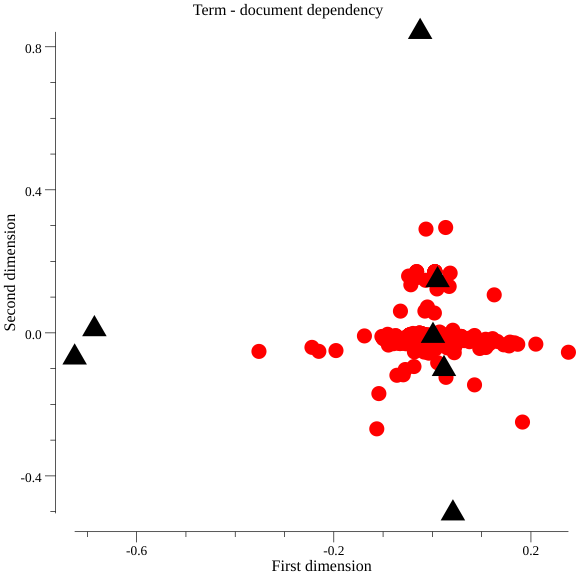
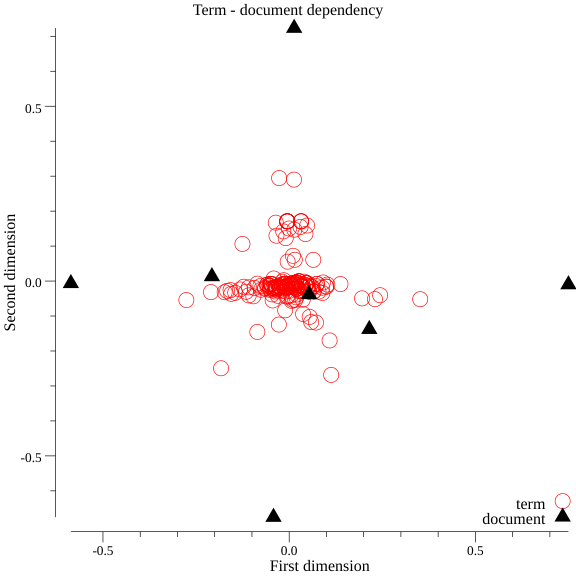
experiments with plot

diff --git a/src/plots.go b/src/plots.go
@@ -42,16 +42,14 @@ func (svd *singularValueDecomposition) createHistSvdSPlot(data []float64) {
 func (svd *singularValueDecomposition) createTermDocumentDependencyPlot(
 	uToX, uToY, vToX, vToY []float64) {
 
-	uToPts := make(plotter.XYs, len(uToX))
-	for i := range uToPts {
-		uToPts[i].X = uToX[i]
-		uToPts[i].Y = uToY[i]
-	}
+	createPoints := func(x, y []float64) plotter.XYs {
+		points := make(plotter.XYs, len(x))
+		for i := range points {
+			points[i].X = x[i]
+			points[i].Y = y[i]
+		}
 
-	vToPts := make(plotter.XYs, len(vToX))
-	for i := range vToPts {
-		vToPts[i].X = vToX[i]
-		vToPts[i].Y = vToY[i]
+		return points
 	}
 
 	p, err := plot.New()
@@ -63,22 +61,24 @@ func (svd *singularValueDecomposition) createTermDocumentDependencyPlot(
 	p.X.Label.Text = "First dimension"
 	p.Y.Label.Text = "Second dimension"
 
-	t, err := plotter.NewScatter(uToPts)
+	t, err := plotter.NewScatter(createPoints(uToX, uToY))
 	if err != nil {
 		panic(err)
 	}
-	t.GlyphStyle.Shape = draw.CircleGlyph{}
+	t.GlyphStyle.Shape = draw.RingGlyph{}
 	t.Radius = 2 * vg.Millimeter
 	t.Color = color.RGBA{R: 255, A:255}
 
-	d, err := plotter.NewScatter(vToPts)
+	d, err := plotter.NewScatter(createPoints(vToX, vToY))
 	if err != nil {
 		panic(err)
 	}
 	d.GlyphStyle.Shape = draw.PyramidGlyph{}
-	d.Radius = 3 * vg.Millimeter
+	d.Radius = 2 * vg.Millimeter
 	d.Color = color.RGBA{R:0, A:255}
 	p.Add(t, d)
+	p.Legend.Add("term", t)
+	p.Legend.Add("document", d)
 
 	// Save the plot to a PNG file.
 	if err := p.Save(6 * vg.Inch, 6 * vg.Inch, "term_doc_dependence.png"); err != nil {
